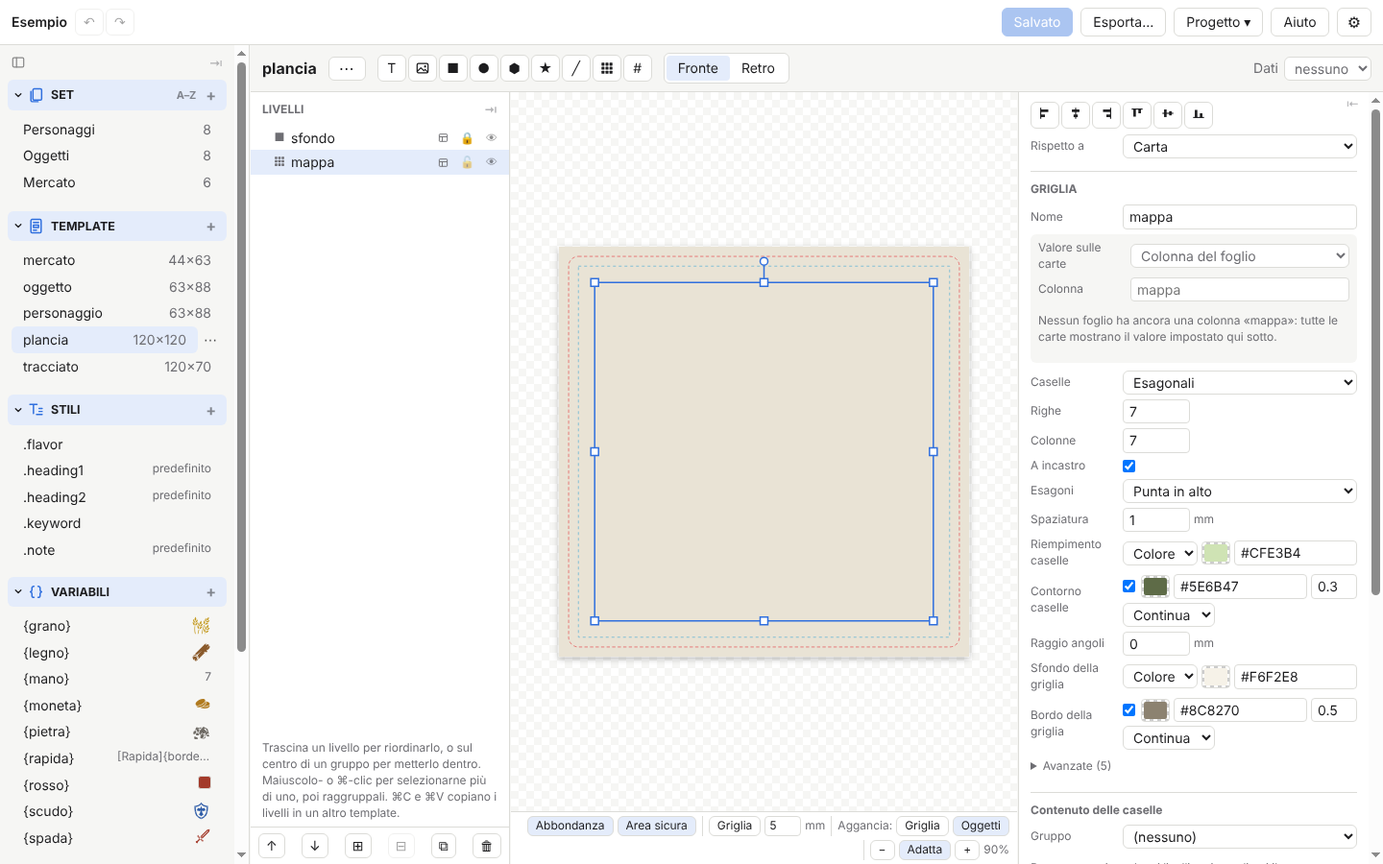
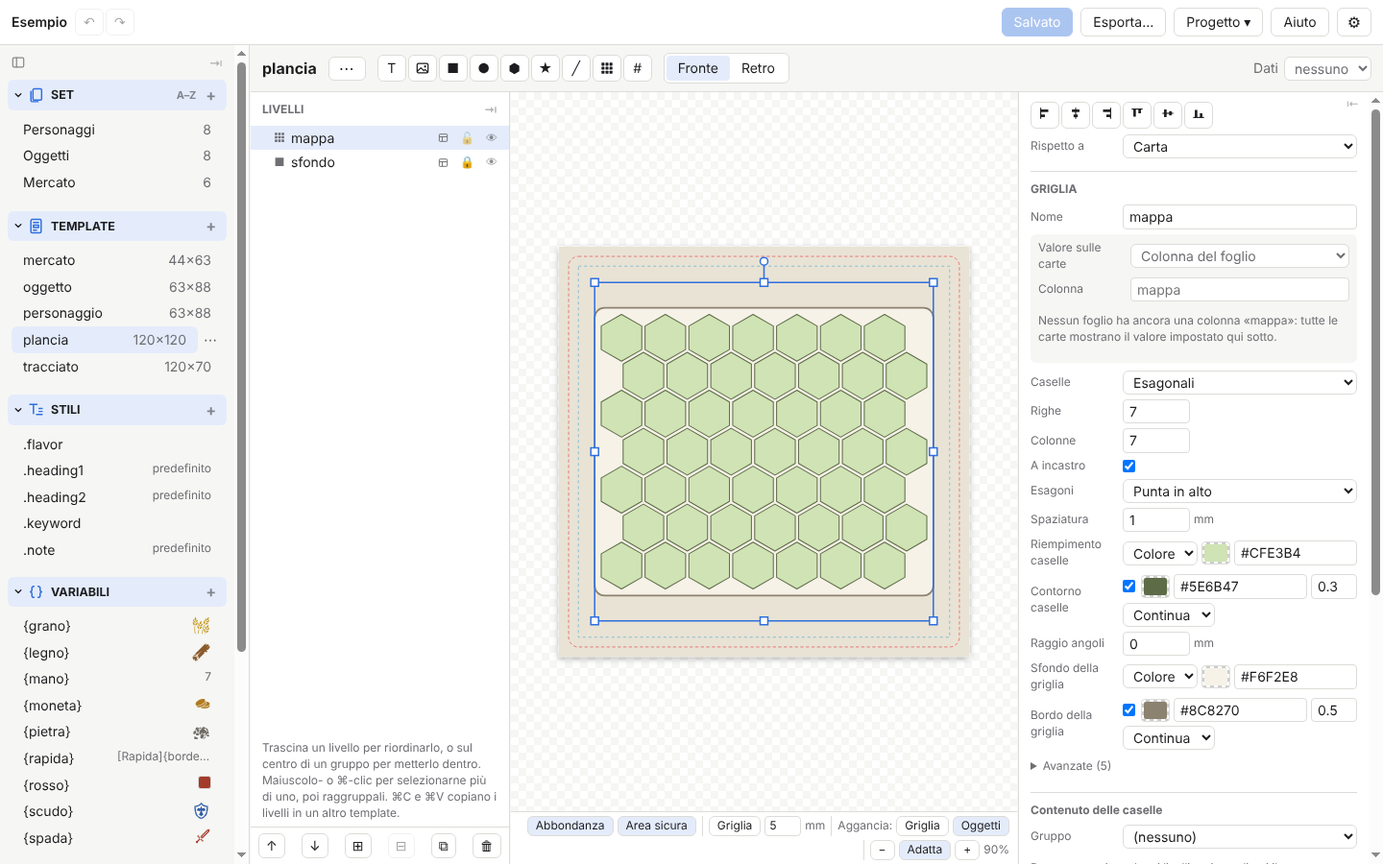
Guide grid screenshots show the grid, docs/format.md in English, README in English
- scripts/guide/l.mjs: the background shape covered the grid (first layer is on top) and the cell group had an empty repeat (0 copies); the cell number now sits on the first cell. Both grid screenshots retaken, IT and EN.
- docs/format.md: English version of the project format; the English guide links to it.
- README.md rewritten in English.

Claude-Session: https://claude.ai/code/session_016GHPTYm2DkGmqsyyWquNEs

Changed region(s): [[0.4062, 0.3422, 0.6875, 0.7156], [0.1562, 0.1244, 0.375, 0.2178]]

diff --git a/docs/format.md b/docs/format.md
@@ -1,0 +1,199 @@
+# Project format
+
+This is the English version of [formato.md](formato.md). When the two differ, the Italian file is the reference.
+
+A Stella project is a folder:
+
+```
+project/
+  stella.json           # name, data file, list of sets
+  data/cards.xlsx       # one sheet per set (or a .csv for a single set)
+  templates/<name>.json # the card templates
+  notes/<name>.md       # project notes in Markdown, written in the app or with any editor
+  docs/<name>.md        # project documents (rulebook, sell sheet…) in Markdown
+  assets/               # images and icons
+  assets/icons/         # icons imported from game-icons.net
+  assets/fonts/         # project fonts (ttf, otf, woff, woff2)
+  assets/sources.json   # origin and license of the files imported from the app
+```
+
+The notes in `notes/` are free notes: the app shows them in the **Notes** section of the sidebar and saves them while you write; an AI reads them with `stella notes` (see [cli.en.md](cli.en.md)). A deleted note goes to `deleted/`.
+
+The documents in `docs/` are the texts that go with the game (rulebook, sell sheet, appendices): the app shows them in the **Documents** section with the preview beside them and saves them while you write. They are Markdown (`#`, `##` and `###` headings, paragraphs separated by a blank line, lists, `>` quotes, tables with `|`, `---` rules, code blocks), with Stella's markup inside the lines (see [specifica.md](specifica.md), 2.1, in Italian), text and value variables, and `{project.name}` and `{date}`. An image `![caption](source)` alone on a line (several images on the same line sit side by side) shows a file from the assets or, with a `card:` source, a card of the project drawn as it is now: `card:<set>/<n>` is the card of row n (from 1), `card:<set>/<column>=<value>` the first card with that value in the column (exact match first, then ignoring case). After `?`, joined by `&`, the options `side=front|back`, `width=<mm>` (by default the real width of the card) and `align=left|center|right`. An asset file also accepts after `?` the options `width=<mm>` (by default the size of the image, reduced to the page) and `align`, as in `icons/map.png?width=40&align=right`; an `http(s)` address stays whole. The alignment applies to the whole row of images: the first one that sets it counts, centred by default. In the set name and in the value, `%29`, `%3F` and `%26` stand for `)`, `?` and `&`. At the top of the file, between two `---` lines, the page settings can appear, one per line as `key: value`: `page` (`A4`, `A5`, `Letter`), `margin` (mm), `font` and `headingFont` (family, also `{variable}`; empty for the default one and for the body one), `size` (body size in points), `lineHeight` (multiples of the body size), `paragraphSpacing` (points after each paragraph), `align` (`left`, `justify`), `color` and `headingColor` (code or project colour), `language` (or `lang`: the language in which the document draws the cards and translates the variables, a code from `languages`; without it, the main language). Settings that are not written have the default value (A4, 18 mm, 11 pt, 1.4, 6 pt, left); the **Page** panel of the app writes them and removes those back at the default. The other entries at the top are the document's properties (as in Obsidian: `title`, `tags`, `author`…): simple YAML, with text values, quoted, on several lines or as lists (`[a, b]` or `- item` lines). They are not printed, unless `showProperties: true`, which shows them in a two-column table at the top of the document and in the exports. The app rewrites only the properties that changed; a name that differs by one letter from a setting (`colour`) is reported as a wrong setting. A ` ```anatomy ` code block is the anatomy of a card: a line `card: <set>/<n or column=value>[?side=…&width=…]` and a line `- <layer>[ (left|right)]: <label>` for each layer to explain; the app draws the card with the labels linked to the layers. A ` ```setup ` block is the table setup diagram, one element per line with measures in mm from the top-left corner: `size <W>x<H>` (table size, optional), `zone <x>,<y> <W>x<H> ["label"]`, `card <card> <x>,<y> [rotate=0|90|180|270] ["label"]`, `deck <card> <x>,<y> [count=<n>] [rotate=…] ["label"]`, `text <x>,<y> [width=<mm>] "text"`, `arrow <x>,<y> -> <x2>,<y2> ["label"]`, `image <file> <x>,<y> [width=<mm>] [rotate=…]`. `<card>` is a reference as after `card:` (prefix optional), with `%20` for spaces; in quoted texts `\"` is a quote; blank lines and lines starting with `#` are ignored. A rotated card takes the rotated box, with `x,y` at its top-left corner. The export (from the app or with `stella export-doc`) writes in `export/docs/` `<name>.pdf`, `<name>.html` (self-contained), `<name>.docx` (Word) or `<name>.md` with the folder `<name> images/`. A deleted document goes to `deleted/` with the extension `.doc.md`. `stella docs` shows them to an AI, `stella check` reports the references that cannot be found.
+
+`assets/sources.json` is written when icons are imported or fonts downloaded from the app: for each file (path relative to `assets/`) it gives the kind (`icon` or `font`), source, identifier, author, license in SPDX form (`CC-BY-3.0`, `OFL-1.1`…), address and import date. It is used to compose the credits; entries for files that no longer exist are removed at the next write. Files added by hand do not appear.
+
+```json
+{
+  "icons/sword.svg": {
+    "kind": "icon",
+    "source": "game-icons.net",
+    "id": "lorc/broadsword",
+    "title": "broadsword",
+    "author": "Lorc",
+    "license": "CC-BY-3.0",
+    "url": "https://game-icons.net/1x1/lorc/broadsword.html",
+    "imported": "2026-10-18"
+  }
+}
+```
+
+## stella.json
+
+Projects created when the app was called Naibi have `naibi.json`, older ones (GameCreator) `gamecreator.json`: they open like the others and keep saving to that file. If a folder has more than one, `stella.json` wins, then `naibi.json`.
+
+```json
+{
+  "formatVersion": 1,
+  "name": "Demo",
+  "dataFile": "data/cards.xlsx",
+  "sets": [{ "name": "Characters", "template": "character", "sheet": "Characters" }]
+}
+```
+
+`sheet` is optional: when missing, the sheet with the same name as the set is used. `hiddenColumns` (optional) lists the columns hidden in the table and in the card fields; `showComputed: true` also shows the fixed and formula layers, read-only. They are view preferences only: they do not change the cards.
+
+`styles` (optional) holds the project's text styles, written with the same attributes as the markup (docs/specifica.md, 2.1). The styles `heading1`, `heading2` and `note` always exist and can be redefined here. Until there is a style editor they are edited by hand.
+
+```json
+"styles": {
+  "keyword": "weight=800 color=#7A3FA0 smallcaps",
+  "flavor": "italic size=90% color=#6B6255 center"
+}
+```
+
+`variables` (optional) holds the project variables (docs/specifica.md, 6.1), one per name, with a `type` field:
+
+```json
+"variables": {
+  "sword": { "type": "image", "src": "sword", "tint": "red", "scale": 1.2, "raise": 10 },
+  "pine": { "type": "text", "text": "[pine]{color=green weight=700}" },
+  "red": { "type": "color", "color": "#A33A2A" },
+  "hand": { "type": "value", "value": "7" }
+}
+```
+
+- `image`: `src` is the name of a file in `assets/`; `tint` (optional) recolours the icon; `scale` is the height relative to normal icons in the text (1 = normal); `raise` moves the icon up, in % of the line; `rotate` (degrees, clockwise), `flip` (`h`, `v`, `hv`) and `opacity` (0-1) are optional.
+- `text`: text with markup that takes the place of `{name}`. `texts` (optional) gives the text in the other project languages, by code: `"texts": { "it": "[pino]{color=green}" }`; a missing language or an empty text uses `text`.
+- `color`: a colour usable by name in every colour property; a standard name (`red`) redefined here changes in the whole project.
+- `value`: constant text or number, usable in texts and formulas. `values` (optional) gives the value in the other languages, like `texts`: texts and formulas without `=` use it, formulas with `=` always use `value`.
+
+A card field with the same name as a variable wins over the variable.
+
+`export` (optional) remembers the options of the last export, with one key per kind: `images`, `pdf`, `tts`. The app writes it when exporting; the option names are in `src/shared/export.ts` and their meaning in docs/specifica.md, section 9. Under `named` are the named profiles, each with `name`, `kind` and `options`. The project's `export/` folder holds the exported files and can be regenerated.
+
+`languages` (optional) lists the project languages as two- or three-letter codes, with an optional variant (`pt-BR`); the first is the main one, that of the columns without `@`. With fewer than two languages the project has a single language. `names` (optional, in the project and in each set) gives the name in the other languages, by code; a missing name is the one of the main language. See docs/specifica.md, 7.1.
+
+```json
+"languages": ["en", "it"],
+"names": { "it": "Assedio" },
+"sets": [{ "name": "Heroes", "template": "hero", "names": { "it": "Eroi" } }]
+```
+
+`order` (optional) remembers the order chosen by hand by dragging the sidebar entries, with one key per list: `templates`, `styles`, `variables`. Without the key the list is alphabetical; names that do not appear go to the end, alphabetically. The order of the sets is that of `sets`. Under `groups` are the groups of styles and variables in the sidebar, by name: `"groups": { "variables": { "gold": "Resources" } }`; a missing entry has no group.
+
+```json
+"order": { "variables": ["sword", "shield", "red"] }
+```
+
+## Data sheets
+
+- The first row holds the headers; every following row is a card.
+- `amount` is the number of copies (1 when empty or missing).
+- A header with the name of a template layer replaces its value; `layer.property` replaces another property (for example `name.color`).
+- Empty cells keep the template value.
+- `field@language` (for example `name@it`, `name.size@it`) is the translation of `field` into one of the project languages: it applies only when the cards are shown in that language, and an empty cell keeps the value of the main language.
+
+### Why xlsx
+
+The reference data file stays `.xlsx`. It is a public standard (ECMA-376, ISO/IEC 29500) and the format best read and written by Excel, Numbers, LibreOffice and Google Sheets. It also keeps several sets in one file, preserves formulas and has no encoding or separator problems.
+
+- `.csv` is supported for a single set, but cannot hold several sheets and gives trouble in Excel with accents and the separator (comma or semicolon depending on the system language).
+- `.ods` (OpenDocument, ISO/IEC 26300) is as open as xlsx and is read and written like xlsx: several sets in one file, and when saving only the cells of the columns with a header are rewritten (cells with the same text stay as they were, with formulas, formatting and notes). Excel handles it worse, though, which is why the recommended format stays xlsx. It is chosen when the project is created, or by changing `dataFile` in `stella.json`.
+
+## Templates
+
+One JSON file per template in `templates/`. Units are millimetres, text size is in points. Each layer lists only the properties that differ from the defaults: the full list is in `src/shared/model/template.ts` and the defaults in `src/shared/model/normalize.ts`.
+
+```json
+{
+  "name": "character",
+  "width": 63,
+  "height": 88,
+  "bleed": 3,
+  "cornerRadius": 3,
+  "front": [
+    {
+      "type": "text",
+      "name": "name",
+      "x": 6,
+      "y": 4.5,
+      "w": 51,
+      "h": 9.5,
+      "size": 14,
+      "weight": 800,
+      "fit": "shrink"
+    },
+    { "type": "image", "name": "cover", "x": 4, "y": 15.5, "w": 55, "h": 31, "src": "{name}" },
+    {
+      "type": "shape",
+      "name": "band",
+      "x": 4,
+      "y": 4,
+      "w": 55,
+      "h": 10.5,
+      "radius": 2,
+      "fill": "#2F5DA8"
+    }
+  ],
+  "back": []
+}
+```
+
+- A derived template has a format of its own: see below.
+- Optional: `shape` (`rect` by default, `ellipse`, `hexagon`, `path` with `shapePath`, an SVG path in 0–1 coordinates of the card) and `guides` (`{ "x": [mm...], "y": [mm...] }`, the editor's manual guides).
+- The first layer of the list is the one on top.
+- Types: `text`, `image`, `shape` (`rect`, `ellipse`, `polygon`, `star`, `line`, `path`), `grid`, `group` (with `children`), `value`. A `line` goes from the centre of the left side to the centre of the right side of its box, rotated by `rotation`: `w` is the length. A `path` has in `path` the outline in 0–1 coordinates of the box, taken from the silhouette of an image.
+- A `grid` draws in its box `rows` × `columns` equal cells: `cell` (`square`, `circle`, `hex`, `triangle`, `diamond`), `interlock` (honeycomb, alternating triangles, diamonds and circles in the gaps between the others, brick-laid squares), `orientation` of the hexagons (`pointy`, `flat`), `cellRatio` (width/height of squares, circles and diamonds), `gap` and `padding` in mm, `zoom` (1 = the largest grid that fits the box without distorting the cells), `alignX` and `alignY` (`start`, `center`, `end`), `clip`, `radius` of the cells; `fill` and `stroke` of the cells, `background`, `border` and `backgroundRadius` of the background; `content` is the name of a group on the same side repeated in every cell (drawn in the first, moved in the others), with the fields `cell.index`, `cell.row`, `cell.column`, `cell.count`, `cell.random`. Geometry in `src/shared/model/grid.ts`.
+- The column with the layer's name replaces its main value: the text for `text`, the file for `image`, the fill for `shape` and `grid`, the visibility for `group`.
+- A `group` with `layout` (`row`, `column`, `grid`) or with `repeat` other than 1 saves its own box (`x`, `y`, `w`, `h`): the children are laid out inside it with `gap`, `columns`, `justify` and `alignItems` (`start`, `center`, `end`). `repeat` is a number or a field, such as `"{strength}"`; the copies are not saved.
+- In texts and file names, `{field}` takes the value of that column of the same row.
+- In a project with several languages a `text` layer with a fixed source can have `texts` and a `value` layer with a fixed source `values`: the text or value in the other languages, by code (`"texts": { "it": "forza" }`). A missing or empty language uses `text` or `value`. In a derived template, a layer that changes `text` without also giving `texts` loses the translations of the base.
+
+### Derived templates
+
+A derived template has `extends` with the name of the base template and in `changes` only the differences. It inherits the rest: a change to the base reaches the derived templates, except for the properties the derived one changed. A derived template can in turn be a base.
+
+```json
+{
+  "extends": "character",
+  "changes": {
+    "template": { "cornerRadius": 5 },
+    "layers": {
+      "band": { "fill": "#B3261E" },
+      "name": { "color": "#FFD27A", "y": 70 },
+      "crest": { "visible": false }
+    },
+    "added": [
+      {
+        "side": "front",
+        "after": "name",
+        "layer": { "type": "image", "name": "flame", "x": 4, "y": 4, "w": 8, "h": 8 }
+      }
+    ]
+  }
+}
+```
+
+- `changes.template`: the template properties that change, among `bleed`, `safeMargin`, `cornerRadius`, `shape`, `shapePath`, `guides`, `labelField`. The card size (`width`, `height`) is always that of the base.
+- `changes.layers`: by name of the base layer, the changed properties. A compound property (stroke, shadow, value source) is written in full.
+- `changes.added`: layers that exist only in the derived template, in the order they are inserted. `side` is `front` or `back`; `parent` the name of the inherited group that contains them (missing: top level of the side); `after` the layer after which they come in the list, that is right below it (missing: on top).
+- Inherited layers cannot be deleted or reordered: to remove them from the card write `"visible": false`. Their names are those of the base, and so are the columns.
+- When a layer is renamed in the base, Stella updates the differences of the derived templates. A difference for a layer the base no longer has is ignored and Stella reports it.
+- Stella 1.1 and earlier do not read derived templates.
+
+### Template per card
+
+An optional `template` column in the sheet chooses the template of a single card; empty means the template of the set. The chosen template must have the size of the set's one, because the cards of a set are printed together; otherwise the card uses the set's template and Stella reports it.
+
+The analysis of the Tabletop Creator format this structure derives from is in [analisi-ttc.md](analisi-ttc.md) (in Italian).

diff --git a/README.md b/README.md
@@ -1,56 +1,45 @@
 # Stella
 
-App desktop per creare carte e altri elementi di gioco a partire da fogli di calcolo. Funziona su file locali.
+Desktop app that draws cards, boards, tokens, dice and the other components of a game from a spreadsheet. It works on local files, on Mac, Windows and Linux. Interface in English and Italian.
 
-L'app prima si chiamava Naibi e, ancora prima, GameCreator: i progetti con `naibi.json` o `gamecreator.json` si aprono ancora.
+A project is a folder with the templates, an Excel file with one sheet per set and the images. Stella draws every card from the data, exports PDFs for printing and images for Tabletop Simulator, and writes the rulebook with the real cards inside.
 
-Stato: apre una cartella di progetto, legge template e fogli dati e disegna le carte di ogni set, in tabella con anteprima o in griglia. Interfaccia in inglese e italiano.
+The presentation site, with downloads and tutorials, is <https://stella.lucadj.eu/>. The user guide is in [docs/guide](docs/guide/README.md) (Italian: [docs/guida](docs/guida/README.md)).
 
-Prossimi passi:
+## Installation
 
-1. editor dei template a livelli (testo, immagine, forma, gruppi);
-2. modifica delle carte da tabella o direttamente sulla carta, colonne espandibili, campi calcolati;
-3. esportazione PNG e PDF di stampa;
-4. import dei progetti Tabletop Creator.
+Packages are on the [Releases](https://github.com/lucadj77/stella/releases) page or, for a build not yet released, among the artifacts of the **Build** action in [Actions](https://github.com/lucadj77/stella/actions/workflows/build.yml).
 
-La guida all'uso è in [docs/guida](docs/guida/README.md) (in inglese in [docs/guide](docs/guide/README.md)). Il sito di presentazione, con i download e i tutorial, è <https://stella.lucadj.eu/> (sorgente in [site/](site/LEGGIMI.md)).
+- **Mac**: `Stella-<version>-mac-arm64.dmg` for Macs with an Apple chip (M1 and later), `-mac-x64.dmg` for those with an Intel processor. Open the .dmg and drag Stella to Applications. The app is not signed with an Apple certificate, so on first launch macOS says it cannot verify it: close the warning, open **System Settings → Privacy & Security** and press **Open Anyway** at the bottom. Alternatively, from Terminal: `xattr -dr com.apple.quarantine /Applications/Stella.app`. Only needed the first time.
+- **Windows**: `Stella-<version>-windows-setup.exe`. Without a signature, Windows SmartScreen shows "Windows protected your PC": press **More info** and then **Run anyway**. For the portable version, which does not install, there is `Stella-<version>-windows-portable.exe`: it starts directly, also from a USB stick, and keeps its data (recent projects, preferences) in the `Stella data` folder next to the file.
+- **Linux**: `Stella-<version>-linux-x86_64.AppImage`, to be made executable (`chmod +x`) and started, or `Stella-<version>-linux-amd64.deb` for Debian and Ubuntu (for example `sudo apt install ./Stella-1.0.0-linux-amd64.deb`). The AppImage needs libfuse2 (on Ubuntu `sudo apt install libfuse2t64`).
 
-I requisiti sono in [docs/requisiti.md](docs/requisiti.md), la specifica funzionale in [docs/specifica.md](docs/specifica.md).
+Where nothing can be installed there is the **web version**, for Chrome, Edge or Opera (in Brave enable `brave://flags/#file-system-access-api`): <https://stella.lucadj.eu/app/>. It works on the same projects, with a few features less; see [docs/web.md](docs/web.md) (in Italian).
 
-## Sviluppo
+## Development
 
 ```bash
 npm install
-npm run dev     # avvia l'app
-npm test        # test
+npm run dev     # starts the app
+npm test        # tests
 ```
 
-Per provare, apri la cartella `examples/demo`. Il comando `stella` e la skill per gli agenti IA sono descritti in [docs/cli.md](docs/cli.md). Il formato è descritto in [docs/formato.md](docs/formato.md).
+To try it, open the `examples/demo` folder. The `stella` command and the skill for AI agents are described in [docs/cli.en.md](docs/cli.en.md). The project format is described in [docs/format.md](docs/format.md).
 
-## Installazione
-
-I pacchetti si scaricano dalla pagina [Releases](https://github.com/lucadj77/stella/releases) o, per una build non ancora rilasciata, dagli artefatti dell'azione **Build** in [Actions](https://github.com/lucadj77/stella/actions/workflows/build.yml).
-
-- **Mac**: `Stella-<versione>-mac-arm64.dmg` per i Mac con chip Apple (M1 e successivi), `-mac-x64.dmg` per quelli con processore Intel. Si apre il .dmg e si trascina Stella in Applicazioni. L'app non è firmata con un certificato Apple, quindi alla prima apertura macOS dice che non può verificarla: si chiude l'avviso, si apre **Impostazioni di Sistema → Privacy e sicurezza** e in fondo si preme **Apri comunque**. In alternativa, da Terminale: `xattr -dr com.apple.quarantine /Applications/Stella.app`. Serve solo la prima volta.
-- **Windows**: `Stella-<versione>-windows-setup.exe`. Senza firma, Windows SmartScreen mostra "Windows ha protetto il PC": si preme **Ulteriori informazioni** e poi **Esegui comunque**. Per la versione portable, che non si installa, c'è `Stella-<versione>-windows-portable.exe`: si avvia direttamente, anche da una chiavetta, e tiene i suoi dati (progetti recenti, preferenze) nella cartella `Stella data` accanto al file.
-- **Linux**: `Stella-<versione>-linux-x86_64.AppImage`, da rendere eseguibile (`chmod +x`) e avviare, oppure `Stella-<versione>-linux-amd64.deb` per Debian e Ubuntu (per esempio `sudo apt install ./Stella-1.0.0-linux-amd64.deb`). L'AppImage richiede libfuse2 (su Ubuntu `sudo apt install libfuse2t64`).
-
-Dove non si può installare nulla c'è la **versione web**, da aprire con Chrome, Edge o Opera (in Brave va attivata `brave://flags/#file-system-access-api`): <https://stella.lucadj.eu/app/>. Lavora sugli stessi progetti, con alcune funzioni in meno; vedi [docs/web.md](docs/web.md).
+Requirements are in [docs/requisiti.md](docs/requisiti.md) and the functional specification in [docs/specifica.md](docs/specifica.md), both in Italian. The site source is in [site/](site/LEGGIMI.md).
 
 ## Build
 
 ```bash
-npm run build:mac    # oppure build:win, build:linux; i pacchetti vanno in dist/
+npm run build:mac    # or build:win, build:linux; packages go to dist/
 ```
 
-Ogni sistema costruisce bene solo i propri pacchetti (il .dmg richiede un Mac, l'installer Windows richiede Windows o Wine). Per averli tutti insieme c'è l'azione **Build** di GitHub: si avvia a mano da Actions, oppure si crea un tag (`git tag v1.0.0 && git push origin v1.0.0`) e i pacchetti finiscono in una release pubblica, scaricabile da chiunque anche senza account GitHub. La versione è quella di `package.json` e le novità sono in [CHANGELOG.md](CHANGELOG.md): la procedura completa è in [docs/rilascio.md](docs/rilascio.md).
+Each system builds its own packages well (the .dmg needs a Mac, the Windows installer needs Windows or Wine). To get them all at once there is the **Build** GitHub action: start it by hand from Actions, or create a tag (`git tag v1.0.0 && git push origin v1.0.0`) and the packages end up in a public release, downloadable by anyone without a GitHub account. The version is the one in `package.json` and the news is in [CHANGELOG.md](CHANGELOG.md): the full procedure is in [docs/rilascio.md](docs/rilascio.md) (in Italian).
 
-## Licenza
+## License
 
-Stella è software libero, distribuito con la licenza [GNU GPL versione 3 o successive](LICENSE): si può usare, studiare, modificare e ridistribuire, anche con modifiche, a patto che le versioni ridistribuite restino sotto la stessa licenza e con il codice sorgente disponibile. Le carte e gli altri file creati con Stella appartengono a chi li crea e non sono vincolati dalla licenza. Icone, font e librerie inclusi hanno le loro licenze, elencate in [THIRD-PARTY-NOTICES.md](THIRD-PARTY-NOTICES.md).
-
-_English_: Stella is free software, licensed under the [GNU GPL version 3 or later](LICENSE). Cards and other files made with Stella belong to their authors and are not covered by this license. Bundled icons, fonts and libraries keep their own licenses, listed in [THIRD-PARTY-NOTICES.md](THIRD-PARTY-NOTICES.md).
+Stella is free software, licensed under the [GNU GPL version 3 or later](LICENSE): it can be used, studied, modified and redistributed, also with changes, as long as the redistributed versions stay under the same license with the source code available. Cards and other files made with Stella belong to their authors and are not covered by this license. Bundled icons, fonts and libraries keep their own licenses, listed in [THIRD-PARTY-NOTICES.md](THIRD-PARTY-NOTICES.md).
 
 ## Stack
 
-Electron, React e TypeScript con electron-vite. Electron è stato scelto rispetto a Tauri perché include Chromium e garantisce lo stesso rendering di carte e PDF su tutti i sistemi operativi.
+Electron, React and TypeScript with electron-vite. Electron was chosen over Tauri because it bundles Chromium and guarantees the same rendering of cards and PDFs on every operating system.

diff --git a/docs/guide/README.md b/docs/guide/README.md
@@ -749,7 +749,7 @@ Example/
   deleted/              deleted templates and sheets of deleted sets, which can be recovered
 ```
 
-A project is self-contained: copying the folder to another computer gives the same result, except for fonts installed only on the first one. The format is described in [docs/formato.md](../formato.md) (in Italian).
+A project is self-contained: copying the folder to another computer gives the same result, except for fonts installed only on the first one. The format is described in [docs/format.md](../format.md).
 
 ## 18. Keyboard shortcuts
 

diff --git a/docs/formato.md b/docs/formato.md
@@ -1,5 +1,7 @@
 # Formato di progetto
 
+La versione inglese è [format.md](format.md).
+
 Un progetto Stella è una cartella:
 
 ```
